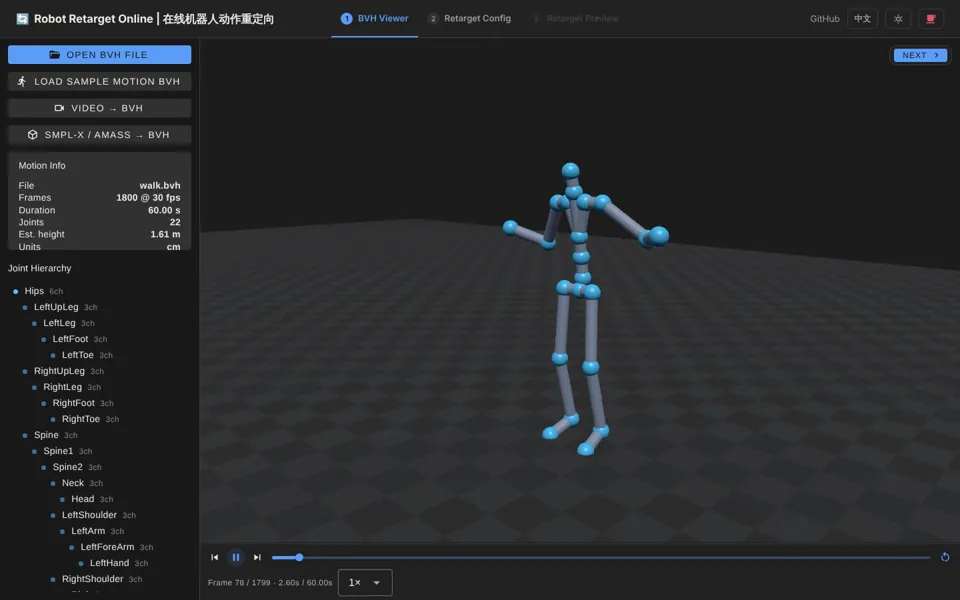
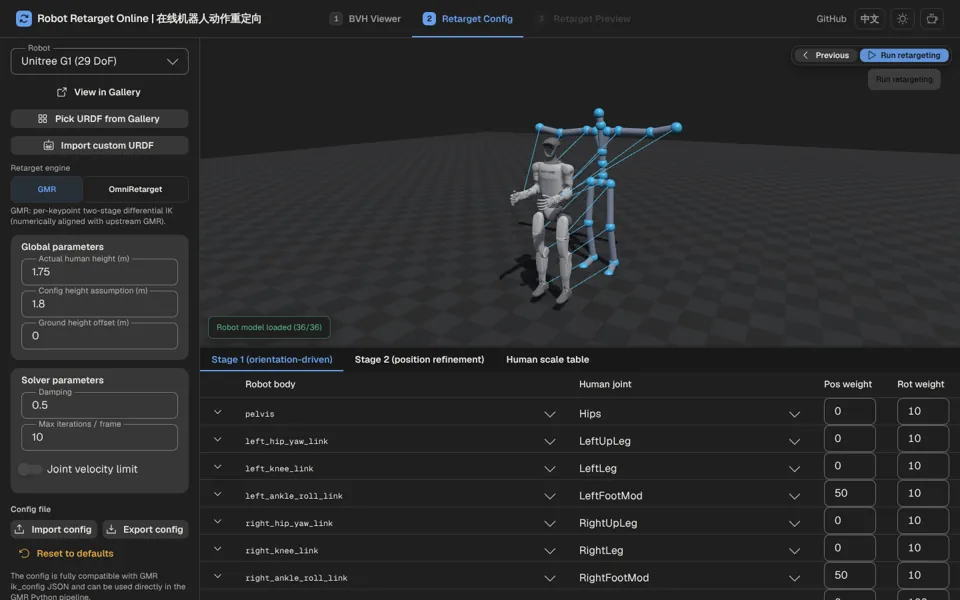
Refresh project previews; show Retarget's config step
- Robot Retarget: the preview now shows the retarget config step, with
  the Unitree G1 beside the LAFAN1 BVH skeleton and the correspondence
  lines between them, instead of the bare BVH preview. The capture
  script loads the walk clip, clicks Next and waits for the robot model
  to finish loading; the alt text follows.
- Sim2Sim: re-captured for its redesigned header and control panel.
- Robotics Notebooks and Paper Notebooks: re-captured for the updated
  node / note counts.

Other projects re-captured pixel-identical (or differ only in animated
lines), so they are unchanged.

Claude-Session: https://claude.ai/code/session_01D1S85BmkJkg5F6U2APSV3A

diff --git a/index.html b/index.html
@@ -341,7 +341,7 @@
                 >
                   <img
                     src="img/projects/robot-retarget-en.webp"
-                    alt="Robot Retarget Online previewing the LAFAN1 walk clip as a BVH skeleton"
+                    alt="Robot Retarget Online retarget config: the Unitree G1 beside the LAFAN1 BVH skeleton, with body-to-joint correspondence lines"
                     width="960"
                     height="600"
                     loading="lazy"
@@ -1196,7 +1196,7 @@
                 >
                   <img
                     src="img/projects/robot-retarget-zh.webp"
-                    alt="在线机器人动作重定向：以 BVH 骨架预览 LAFAN1 行走动作"
+                    alt="在线机器人动作重定向的重定向设置页：Unitree G1 与 LAFAN1 BVH 骨架并排，连线标出对应关系"
                     width="960"
                     height="600"
                     loading="lazy"

diff --git a/scripts/capture_project_previews.py b/scripts/capture_project_previews.py
@@ -35,12 +35,17 @@ WEBP_QUALITY = 80
 BASE = "https://imchong.github.io"
 
 
-def load_sample_motion(page) -> None:
-    """Robot Retarget: open the sample menu and load the LAFAN1 walk clip."""
+def open_retarget_config(page) -> None:
+    """Robot Retarget: load the LAFAN1 walk clip, then open the retarget
+    config step so the G1 and the BVH skeleton show side by side."""
     page.get_by_text(re.compile(r"加载示例动作|sample", re.I)).first.click()
     page.wait_for_timeout(800)
     page.get_by_text(re.compile(r"Walk")).first.click()
     page.wait_for_timeout(4000)
+    page.get_by_role("button", name=re.compile(r"下一步|Next", re.I)).first.click()
+    # "机器人模型加载完成 (36/36)" / "Robot model loaded (36/36)"
+    page.get_by_text(re.compile(r"加载完成|loaded \(")).first.wait_for(timeout=60000)
+    page.wait_for_timeout(1500)
 
 
 def load_sample_robot(page) -> None:
@@ -80,7 +85,7 @@ PROJECTS = [
         "rjoct.lang",
         load_sample_robot,
     ),
-    ("robot-retarget", "/Robot_Retarget_Online/", "rro-locale", load_sample_motion),
+    ("robot-retarget", "/Robot_Retarget_Online/", "rro-locale", open_retarget_config),
     ("robot-learning-io-board", "/Robot_Learning_IO_Board_Online/", None, None),
     (
         "robot-learning-sim2sim",
